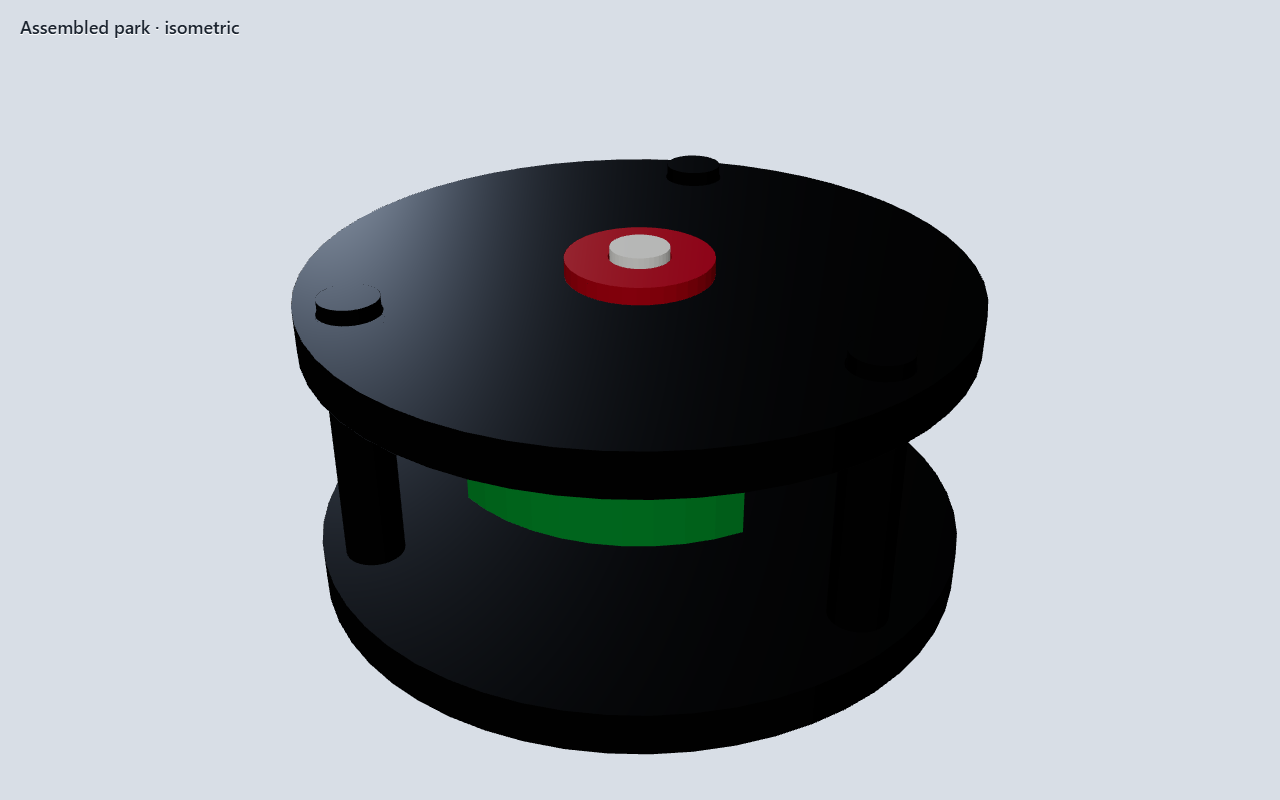
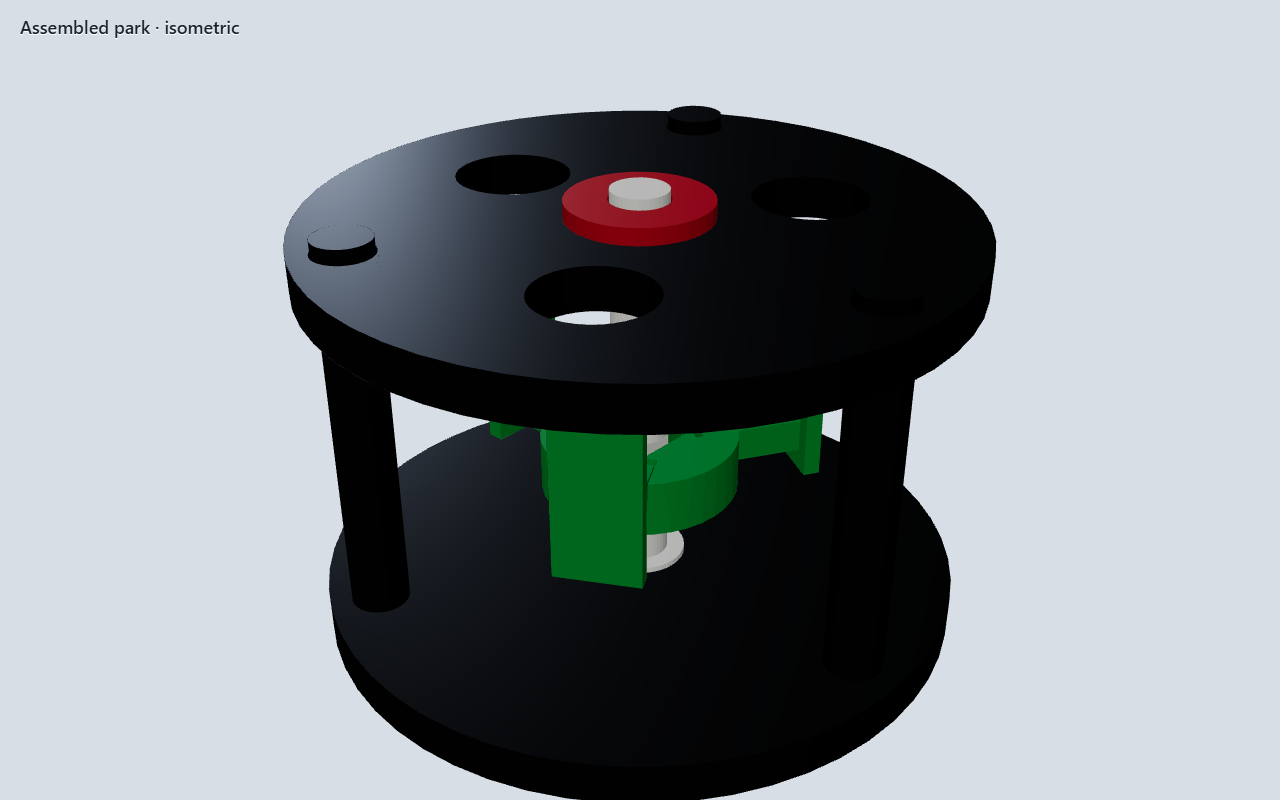
fix(mcp): replace hoop-sector wings with vertical blades
A concentric C cannot make torque. The wing is a 12x2.4x32 plate with a tenon into the hub. The top plate gets windows so the rotor is visible. The exam now rejects a hoop-sized XY bbox.

Changed region(s): [[0.2188, 0.125, 0.7812, 0.75], [0.25, 0.5938, 0.75, 1.0], [0.6875, 0.4062, 0.7812, 0.7188]]

diff --git a/mcp-server/src/print_kit_tutor.rs b/mcp-server/src/print_kit_tutor.rs
@@ -55,10 +55,11 @@ pub struct Spec {
     pub drive_across_hub: f64,
     pub wing_count: usize,
     pub wing_h: f64,
-    pub wing_outer_r: f64,
-    pub wing_inner_r: f64,
-    pub wing_sweep_deg: f64,
+    pub wing_radius: f64,
+    pub wing_chord: f64,
+    pub wing_thick: f64,
     pub wing_offset_deg: f64,
+    pub window_d: f64,
     pub top_plate_d: f64,
     pub top_plate_h: f64,
     pub cap_d: f64,
@@ -114,17 +115,36 @@ impl Spec {
         let radius = self.hub_od / 2.0 - self.socket_radial / 2.0;
         [radius * radians.cos(), radius * radians.sin()]
     }
+    fn blade_center(&self, index: usize) -> [f64; 2] {
+        let radians = self.wing_angle_deg(index).to_radians();
+        [
+            self.wing_radius * radians.cos(),
+            self.wing_radius * radians.sin(),
+        ]
+    }
+    fn blade_angle_deg(&self, index: usize) -> f64 {
+        self.wing_angle_deg(index) + 90.0
+    }
+    fn blade_inner_r(&self) -> f64 {
+        self.wing_radius - self.wing_thick / 2.0
+    }
+    fn blade_tip_r(&self) -> f64 {
+        (self.wing_radius.powi(2) + (self.wing_chord / 2.0).powi(2)).sqrt()
+    }
     fn tenon_center(&self, index: usize) -> [f64; 2] {
         let radians = self.wing_angle_deg(index).to_radians();
         let inner = self.hub_od / 2.0 - self.socket_radial + self.clearance_mm / 2.0;
-        let outer = self.wing_inner_r + 0.2;
+        let outer = self.blade_inner_r() + 0.2;
         let radius = (inner + outer) / 2.0;
         [radius * radians.cos(), radius * radians.sin()]
     }
     fn tenon_radial(&self) -> f64 {
         let inner = self.hub_od / 2.0 - self.socket_radial + self.clearance_mm / 2.0;
-        let outer = self.wing_inner_r + 0.2;
+        let outer = self.blade_inner_r() + 0.2;
         outer - inner
+    }
+    fn window_xy(&self, index: usize) -> [f64; 2] {
+        self.blade_center(index)
     }
     fn socket_floor_z(&self) -> f64 {
         self.shoulder_top() + self.hub_h - self.socket_h
@@ -482,16 +502,22 @@ fn build_wing(
     index: usize,
     known: &[u64],
 ) -> Result<u64, String> {
+    let angle = spec.wing_angle_deg(index);
     let deck = offset_xy(call, spec.shoulder_top())?;
     begin_datum(call, deck)?;
-    add_circle(call, [0.0, 0.0], spec.wing_outer_r * 2.0)?;
-    add_circle(call, [0.0, 0.0], spec.wing_inner_r * 2.0)?;
-    let ring = finish_sketch(call)?;
+    add_oriented_rect(
+        call,
+        spec.blade_center(index),
+        spec.wing_chord,
+        spec.wing_thick,
+        spec.blade_angle_deg(index),
+    )?;
+    let blade = finish_sketch(call)?;
     let update = require_clean(
         call(
             "solid_extrude",
             json!({
-                "sketch_name": ring,
+                "sketch_name": blade,
                 "profile_indices": [0],
                 "operation": "new_body",
                 "extent": { "type": "distance", "distance": spec.wing_h },
@@ -500,32 +526,9 @@ fn build_wing(
                 "target_body_ids": []
             }),
         )?,
-        "wing ring",
+        "wing blade",
     )?;
     let wing_id = newest_body_id(&update, known)?;
-
-    let angle = spec.wing_angle_deg(index);
-    let keep_start = angle - spec.wing_sweep_deg / 2.0;
-    let keep_end = angle + spec.wing_sweep_deg / 2.0;
-    let pie_deck = offset_xy(call, spec.shoulder_top())?;
-    begin_datum(call, pie_deck)?;
-    add_pie_cut(call, keep_start, keep_end, 80.0)?;
-    let pie = finish_sketch(call)?;
-    require_clean(
-        call(
-            "solid_extrude",
-            json!({
-                "sketch_name": pie,
-                "profile_indices": [0],
-                "operation": "cut",
-                "extent": { "type": "distance", "distance": spec.wing_h + 1.0 },
-                "taper_angle_deg": 0.0,
-                "flip": false,
-                "target_body_ids": [wing_id]
-            }),
-        )?,
-        "wing bay",
-    )?;
 
     let tenon_deck = offset_xy(call, spec.socket_floor_z())?;
     begin_datum(call, tenon_deck)?;
@@ -586,13 +589,16 @@ fn build_top_plate(
     for i in 0..spec.post_count {
         add_circle(call, spec.post_xy(i), spec.post_hole)?;
     }
+    for i in 0..spec.wing_count {
+        add_circle(call, spec.window_xy(i), spec.window_d)?;
+    }
     let holes = finish_sketch(call)?;
     require_clean(
         call(
             "solid_extrude",
             json!({
                 "sketch_name": holes,
-                "profile_indices": (0..=spec.post_count).collect::<Vec<_>>(),
+                "profile_indices": (0..(1 + spec.post_count + spec.wing_count)).collect::<Vec<_>>(),
                 "operation": "cut",
                 "extent": { "type": "distance", "distance": spec.top_plate_h + 1.0 },
                 "taper_angle_deg": 0.0,
@@ -721,7 +727,7 @@ fn grade(
 
     let proper_stack = spec.top_plate_h > spec.bush_h
         && spec.post_extrude_h() + spec.base_h > spec.plate_top()
-        && spec.wing_outer_r + 1.0 < spec.post_inner_r()
+        && spec.blade_tip_r() + 1.0 < spec.post_inner_r()
         && spec.thrust_float > 0.0
         && spec.cap_float > 0.0;
     let stacked = bodies.len() >= spec.min_bodies
@@ -735,9 +741,9 @@ fn grade(
         "assemble",
         stacked,
         format!(
-            "{} coaxial bodies; wing r{:.0} in post inner r{:.0}; hub sockets",
+            "{} coaxial bodies; blade tip r{:.1} in post inner r{:.0}; hub sockets",
             bodies.len(),
-            spec.wing_outer_r,
+            spec.blade_tip_r(),
             spec.post_inner_r()
         ),
     );
@@ -776,15 +782,22 @@ fn grade(
     let wing_faces = wing
         .and_then(|body| body["faces"].as_array().map(|faces| faces.len()))
         .unwrap_or(0);
-    let wing_span = wing
-        .and_then(bbox)
+    let wing_box = wing.and_then(bbox);
+    let wing_span = wing_box
         .map(|box3| box3[1][2] - box3[0][2])
         .unwrap_or(0.0);
+    let wing_xy = wing_box
+        .map(|box3| (box3[1][0] - box3[0][0]).max(box3[1][1] - box3[0][1]))
+        .unwrap_or(f64::INFINITY);
     push_lesson(
         &mut lessons,
         "not_2d",
-        wing_faces >= spec.min_rotor_faces && wing_span > spec.wing_h - 1.0,
-        format!("mounted wing faces={wing_faces} height={wing_span:.1}"),
+        wing_faces >= spec.min_rotor_faces
+            && wing_span > spec.wing_h - 1.0
+            && wing_xy < spec.blade_tip_r()
+            && spec.wing_thick < spec.wing_chord / 3.0
+            && spec.wing_h > spec.wing_chord * 2.0,
+        format!("mounted blade faces={wing_faces} height={wing_span:.1} xy={wing_xy:.1}"),
     );
 
     let timeline_ok = features.iter().all(|feature| {
@@ -880,26 +893,6 @@ fn add_oriented_rect(
         ],
         true,
     )
-}
-
-fn add_pie_cut(
-    call: &mut impl FnMut(&str, Value) -> Result<Value, String>,
-    keep_start_deg: f64,
-    keep_end_deg: f64,
-    far: f64,
-) -> Result<(), String> {
-    let mut points = vec![[0.0, 0.0]];
-    let mut angle = keep_end_deg;
-    let end = keep_start_deg + 360.0;
-    while angle < end - 1e-6 {
-        let radians = angle.to_radians();
-        points.push([far * radians.cos(), far * radians.sin()]);
-        angle += 40.0;
-    }
-    let radians = end.to_radians();
-    points.push([far * radians.cos(), far * radians.sin()]);
-    points.push([0.0, 0.0]);
-    add_poly(call, &points, true)
 }
 
 fn cut_flats(
@@ -1192,7 +1185,9 @@ mod spec_tests {
         assert_eq!(spec.cone_half_deg, 45.0);
         assert!(spec.male_cone_r + 0.15 < spec.cone_r());
         assert!(spec.top_plate_h > spec.bush_h);
-        assert!(spec.wing_outer_r + 1.0 < spec.post_inner_r());
+        assert!(spec.blade_tip_r() + 1.0 < spec.post_inner_r());
+        assert!(spec.wing_h > spec.wing_chord * 2.0);
+        assert!(spec.wing_thick < spec.wing_chord / 3.0);
         assert!(spec.post_extrude_h() + spec.base_h > spec.plate_top());
         assert!(
             (spec.plate_z

diff --git a/mcp-server/src/surfaces.rs b/mcp-server/src/surfaces.rs
@@ -380,8 +380,8 @@ pub fn get_prompt(name: &str, arguments: &Value) -> Result<Value, String> {
                  3. The frame is a two-bearing stand. The wing uses the hub. Assembly order: base → shaft → hub → three wings → top plate → printed bushing → cap. noBS CAD has no mates; place bodies by construction. That gap is real.\n\
                  4. Base: Ø90 × 6 plate. Cut a 45° conical thrust cup (female r5) with a Ø3 relief at the apex. Join three Ø8 posts on R38 at 120° that continue through the top plate and stand 2 mm proud.\n\
                  5. Shaft: revolve on XZ. Smaller male cone (r4.8) plus a Ø13 × 0.8 thrust land with 0.20 float above the base — do not use a same-angle lifted cone (parallel surfaces never touch). Ø8 journal, Ø16 shoulder, double-D 6.0 only in the hub zone, upper journal through the plate.\n\
-                 6. Hub: Ø28 × 8 that sits on the shoulder (do not swallow the shoulder), Ø8.4 bore, double-D 6.4, three sockets (8 × 6 × 5) at 60°/180°/300° open to the OD. Each wing is a scoop (r20–r28, 80° sweep, 16 mm tall) with a 7.6 × 4.8 tenon that drops into a socket. Wings sit in the bays between the posts. Sweep must clear the posts (R38 inner wall). A leftover helical C-loft or a paint-stand platter is not a wing.\n\
-                 7. Top plate Ø90 × 6 at z=36 (above the wings + 2 mm gap). Ø8.4 post holes that actually locate. Bushing seat Ø14.4 × 4 from the top so a 2 mm land remains. Printed bushing Ø8.4/Ø14 × 4 on that land. Cap Ø20 × 2.4 with 0.20 float. Functional holes are XY circles. Disable grid snap. Prefer locked circles. Draw non-ortho socket/tenon lines with ctrl held.\n\
+                 6. Hub: Ø28 × 8 that sits on the shoulder (do not swallow the shoulder), Ø8.4 bore, double-D 6.4, three sockets (8 × 6 × 5) at 60°/180°/300° open to the OD. Each wing is a vertical blade: chord 12 mm tangential, thickness 2.4 mm, span 32 mm, mid-chord at R24. Tenon 7.6 × 4.8 drops into a socket. A concentric ring sector is not a wing — its concave face points at the axis and cannot catch wind. Blades sit in the bays between the posts. Tip must clear the posts (R38 inner wall).\n\
+                 7. Top plate Ø90 × 6 at z=52 (above the wings + 2 mm gap). Ø8.4 post holes that actually locate. Ø16 windows over each blade so the rotor is visible. Bushing seat Ø14.4 × 4 from the top so a 2 mm land remains. Printed bushing Ø8.4/Ø14 × 4 on that land. Cap Ø20 × 2.4 with 0.20 float. Functional holes are XY circles. Disable grid snap. Prefer locked circles. Draw non-ortho socket/tenon/blade lines with ctrl held.\n\
                  8. cad_set_focus print. set_body_appearance. solid_export_preflight. solid_export_3mf slicer_target=bambu_studio.\n\
                  9. Grade: timeline ok, ≥9 coaxial bodies, posts through plate, wings in hub sockets, cone/land thrust, double-D drive, even 3+3 layout, mounted wing, 3MF is a PK zip.\n\
                  Later: catalog metal bearings from a standard table at larger sizes. Not this exam."

diff --git a/docs/agentic/PRINT_KIT_GDT.md b/docs/agentic/PRINT_KIT_GDT.md
@@ -15,8 +15,10 @@ shaft and sweeping the bays between the posts.
 
 A lazy-Susan platter with paint wells does not use the frame. Helical
 C-buckets joined to a hub also failed: they were leftover loft, not a
-mount. The wing is now a **separate scoop with a tenon** that drops into
-a hub socket.
+mount. A concentric ring sector is also not a wing: the concave face
+points at the axis and cannot catch wind. The wing is a **vertical
+blade** (chord tangential, span up the bay) with a tenon into a hub
+socket. Windows in the top plate keep the blades visible.
 
 ## Faults found (and closed)
 
@@ -24,14 +26,15 @@ a hub socket.
 |-------|---------------|------------|
 | Product (turntable) | Competent bearings, no wing. The frame had nothing to do. | **Printed VAWT.** Keep the two-bearing frame. Hub sockets. Three wings that drop on. |
 | Product (leftover loft) | Two helical C-buckets joined to a hub. Not a mount, not assemblable as a wing. | Separate wing bodies. Tenon in socket. No loft. |
-| Rotor vs posts | C-buckets sweep ~Ø56. Posts on R24 × Ø6 occupy R21–27. They collide. | Posts on **R38 × Ø8**. Inner wall R34. Wing outer **R28**. ≥6 mm air. Wings in the bays (60° offset). |
+| Product (hoop sector) | “Scoop” was an 80° annulus at r20–r28. Concave faces the axis. Looks like a broken rim. Cannot make torque. | **Vertical blade.** Chord 12 mm along the path, 2.4 mm thick, 32 mm span, mid-chord at R24. |
+| Rotor vs posts | C-buckets sweep ~Ø56. Posts on R24 × Ø6 occupy R21–27. They collide. | Posts on **R38 × Ø8**. Inner wall R34. Blade tip ~**R25**. ≥9 mm air. Wings in the bays (60° offset). |
 | Posts vs plate | Posts stopped at the plate bottom. Holes did not locate. | Posts continue **through** the 6 mm plate and stand **2 mm proud**. |
 | Bushing seat | Plate and seat were both 4 mm. Seat was a through-hole. Bushing falls. | Plate **6 mm**. Seat **4 mm** from the top. **2 mm land** under the sleeve. |
 | Cone “seat” | Same 45° + tip lift = parallel cones. No contact. Shaft falls. | Female 45° r5. Male r**4.8** (0.20 radial). Thrust on a **Ø13 × 0.8 land** with **0.20 float**. |
 | Rotor drive | Round-on-round slip. Rotor need not turn the shaft. | **Double-D** 6.0 / 6.4 in the hub zone only. |
 | Wing mount | No interface. Blade was a leftover solid. | Hub **sockets** 8 × 6 × 5. Wing **tenon** 7.6 × 4.8 (+0.40 / 0.20 float). |
 | Hub vs shoulder | Hub started at the shoulder plane with an Ø8.4 bore around the Ø16 shoulder. They occupy the same volume. | Hub **sits on the shoulder top**. `plate_z` includes the 2 mm shoulder. |
-| Twisted buckets | Radial C-walls ortho-snapped. Loft stations had no closed profile. | No loft. Straight scoops. Socket/tenon lines drawn with **ctrl held**. |
+| Twisted buckets | Radial C-walls ortho-snapped. Loft stations had no closed profile. | No loft. Vertical plates. Socket/tenon lines drawn with **ctrl held**. |
 
 ## Datum scheme
 
@@ -66,7 +69,7 @@ contact is intentional.
 | Base | As assembled (A on the bed) | 45° cup needs no support. Posts print up. |
 | Shaft | Land / shoulder on the bed | Do not print on the cone tip. Double-D flats are vertical walls. |
 | Hub | Face on the bed | Sockets are complete XY pockets. |
-| Wing | Scoop wall on the bed | Tenon stands up. 8 mm radial depth. |
+| Wing | Blade face on the bed | Tenon stands up. 2.4 mm thick plate. |
 | Top plate | Flat | All functional holes are complete XY circles. |
 | Bushing | Ring on the bed | Bore is an XY circle. |
 | Cap | Flat | Same. |
@@ -78,7 +81,7 @@ on post tips in the slicer if they hang on the plate.
 
 1. Shaft cone into the cup — land floats 0.20 above A.
 2. Hub double-D onto the journal; hub **sits on** the shoulder.
-3. Each wing **drops** its tenon into a hub socket. The scoop sits in a post bay.
+3. Each wing **drops** its tenon into a hub socket. The blade stands in a post bay.
 4. Top plate down the three posts (holes actually engage).
 5. Sleeve into the shouldered seat.
 6. Cap onto the round journal, 0.20 above the plate.
@@ -87,13 +90,15 @@ If those steps are not visible in the solid, the exam failed.
 
 ## Wings (hub off the lid)
 
-The top plate hides the rotor in the assembled park. These views are hub + three wings only.
+The top plate used to hide the rotor. These views are hub + three wings
+only. The blades are **flat plates**, not cambered airfoils — printable
+geometry that can make drag torque. A concentric C cannot.
 
 ![Wings on the hub, isometric](images/wings-iso.png)
 
 ![Wings on the hub, top](images/wings-top.png)
 
-![One wing, scoop and tenon](images/wings-one.png)
+![One wing, blade and tenon](images/wings-one.png)
 
 ## Assembled park
 
@@ -107,12 +112,12 @@ The top plate hides the rotor in the assembled park. These views are hub + three
 
 | Body | z min–max | Notes |
 |------|-----------|--------|
-| Base + posts | 0–44 | Posts through the 36–42 plate, 2 mm proud |
-| Shaft | 1.5–46 | Land above the cup; journal through the cap |
+| Base + posts | 0–60 | Posts through the 52–58 plate, 2 mm proud |
+| Shaft | 1.5–62 | Land above the cup; journal through the cap |
 | Hub | 18–26 | Sits on the shoulder; sockets from the top |
-| Wings | 18–34 | Tenon in the socket; scoop clears the plate by 2 mm |
-| Top plate | 36–42 | Ø90 × 6 |
-| Bushing | 38–42 | On the 2 mm land |
-| Cap | 42.2–44.6 | 0.20 float |
+| Wings | 18–50 | Vertical blades; tenon in the socket; 2 mm air to the plate |
+| Top plate | 52–58 | Ø90 × 6 with Ø16 windows over the blades |
+| Bushing | 54–58 | On the 2 mm land |
+| Cap | 58.2–60.6 | 0.20 float |
 
-Wing outer R28 < post inner R34. Nine coaxial bodies.
+Blade tip ~R25 < post inner R34. Nine coaxial bodies.

diff --git a/docs/agentic/PRINT_KIT_TUTOR.md b/docs/agentic/PRINT_KIT_TUTOR.md
@@ -24,8 +24,8 @@ placed **assembled on one axis**:
 | Base | Ø90 × 6 plate, 45° cup (r5), 3× Ø8 posts on R38 | Cup centers the shaft. Posts locate through the top plate and stand 2 mm proud. |
 | Shaft | Male cone r4.8, Ø13 × 0.8 land (0.20 float), Ø8 journal, Ø16 shoulder, double-D 6.0 in the hub zone | Land takes thrust; journal runs in the sleeve; double-D drives the hub |
 | Hub | Ø28 × 8, Ø8.4 bore, **sits on the shoulder**, double-D 6.4, 3 sockets at 60°/180°/300° | The wing mount. Sockets open to the OD. |
-| Wing ×3 | Scoop r20–r28, 80° sweep, 16 mm tall, 7.6 × 4.8 tenon | Drops into a hub socket. Sweeps a bay between the posts. |
-| Top plate | Ø90 × 6 at z=36, Ø8.4 post holes, Ø14.4 × 4 seat (2 mm land) | Drops onto the three posts; seat holds the sleeve |
+| Wing ×3 | Vertical blade: chord 12 mm tangential, thick 2.4, span 32, mid-chord R24, 7.6 × 4.8 tenon | Drops into a hub socket. Stands in a bay between the posts. |
+| Top plate | Ø90 × 6 at z=52, Ø8.4 post holes, Ø16 windows over the blades, Ø14.4 × 4 seat | Drops onto the three posts; windows keep the rotor visible; seat holds the sleeve |
 | Printed bushing | Ø8.4 / Ø14 × 4 sleeve | Sits on the land; upper radial bearing; no metal 608 |
 | Cap | Ø20 × 2.4 washer, 0.20 float above the plate | Slips onto the journal and keeps the stack down |
 
@@ -36,7 +36,7 @@ gaps; do not occupy the same volume.
 Assembly order: **base → shaft → hub → three wings → top plate → bushing → cap**.
 
 Print each body in its own orientation (base/plate flat, shaft on the
-land, bushing as a ring, hub on its face, wings on the scoop wall). The
+land, bushing as a ring, hub on its face, wings on the blade face). The
 exam shows the assembled stack so the mechanism is readable. noBS CAD
 cannot store a second print layout.
 

diff --git a/knowledge/log.md b/knowledge/log.md
@@ -3,9 +3,10 @@
 ## 2026-08-16
 
 - **Update**: Print-kit tutor is a printed VAWT again (`fdm-print-vawt`).
-  The two-bearing frame stays. The wing is a separate scoop that drops a
-  tenon into a hub socket and sweeps a bay between the posts. A turntable
-  was the wrong product — the wing had nothing to use. Record:
+  The two-bearing frame stays. The wing is a vertical blade (chord
+  tangential, span up the bay) that drops a tenon into a hub socket.
+  A concentric ring sector is not a wing — it cannot make torque. A
+  turntable was the wrong product — the wing had nothing to use. Record:
   [docs/agentic/PRINT_KIT_GDT.md](../docs/agentic/PRINT_KIT_GDT.md).
 
 ## 2026-08-15
